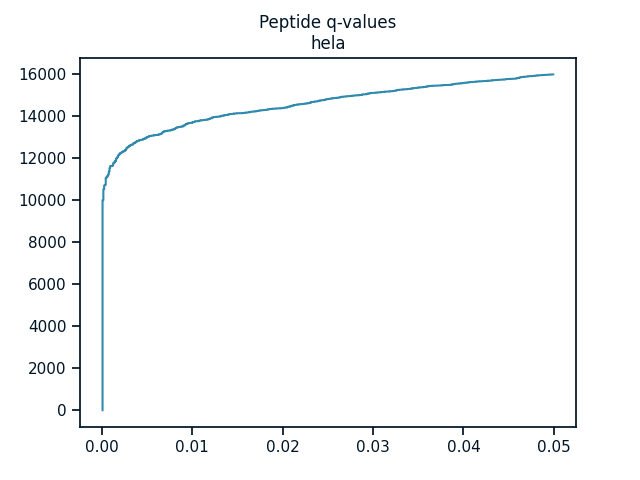
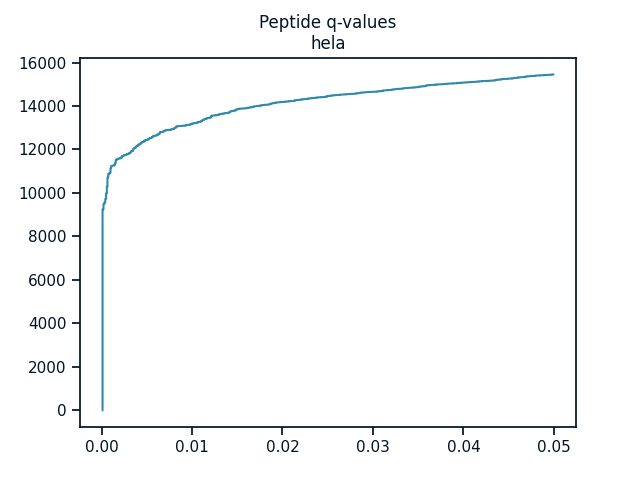
updated dvc run information for orbi data

diff --git a/diadem/search/diadem.py b/diadem/search/diadem.py
@@ -174,9 +174,11 @@ def search_group(  # noqa C901 `search_group` is too complex (18)
         #     new_stack.center_intensities * new_stack.trace_correlation()
         # )
         testcoef = np.log1p((-new_stack.trace_correlation()).argsort().argsort()) + 1
-        # >>> np.log1p((-np.array([3,2,1])).argsort().argsort()) + 1
+        # >>> np.log1p((-np.array([1,0.95,0.7])).argsort().argsort()) + 1
         # array([1.        , 1.69314718, 2.09861229])
-        scoring_intensities = np.log1p(new_stack.center_intensities) / testcoef
+        # scoring_intensities = np.log1p(new_stack.center_intensities) / testcoef
+        # scoring_intensities = np.sqrt(new_stack.center_intensities) / testcoef # 12707
+        scoring_intensities = np.sqrt(new_stack.center_intensities) / testcoef
 
         if new_stack.ref_fwhm >= 2:
             scores = db.hyperscore(
@@ -316,7 +318,10 @@ def search_group(  # noqa C901 `search_group` is too complex (18)
             score_log.append(scores["Score"].max())
             num_consecutive_fails = 0
         else:
-            # logger.debug(f"{match_id} did not match any peptides, scaling and skipping")
+            # This logging generates an extremely verbose log, consider
+            # adding a "detail" level to the logger.
+            # logger.debug(f"{match_id} did not match any peptides,
+            # scaling and skipping")
             scaling = (
                 SCALING_RATIO
                 * np.ones_like(new_stack.ref_trace)
